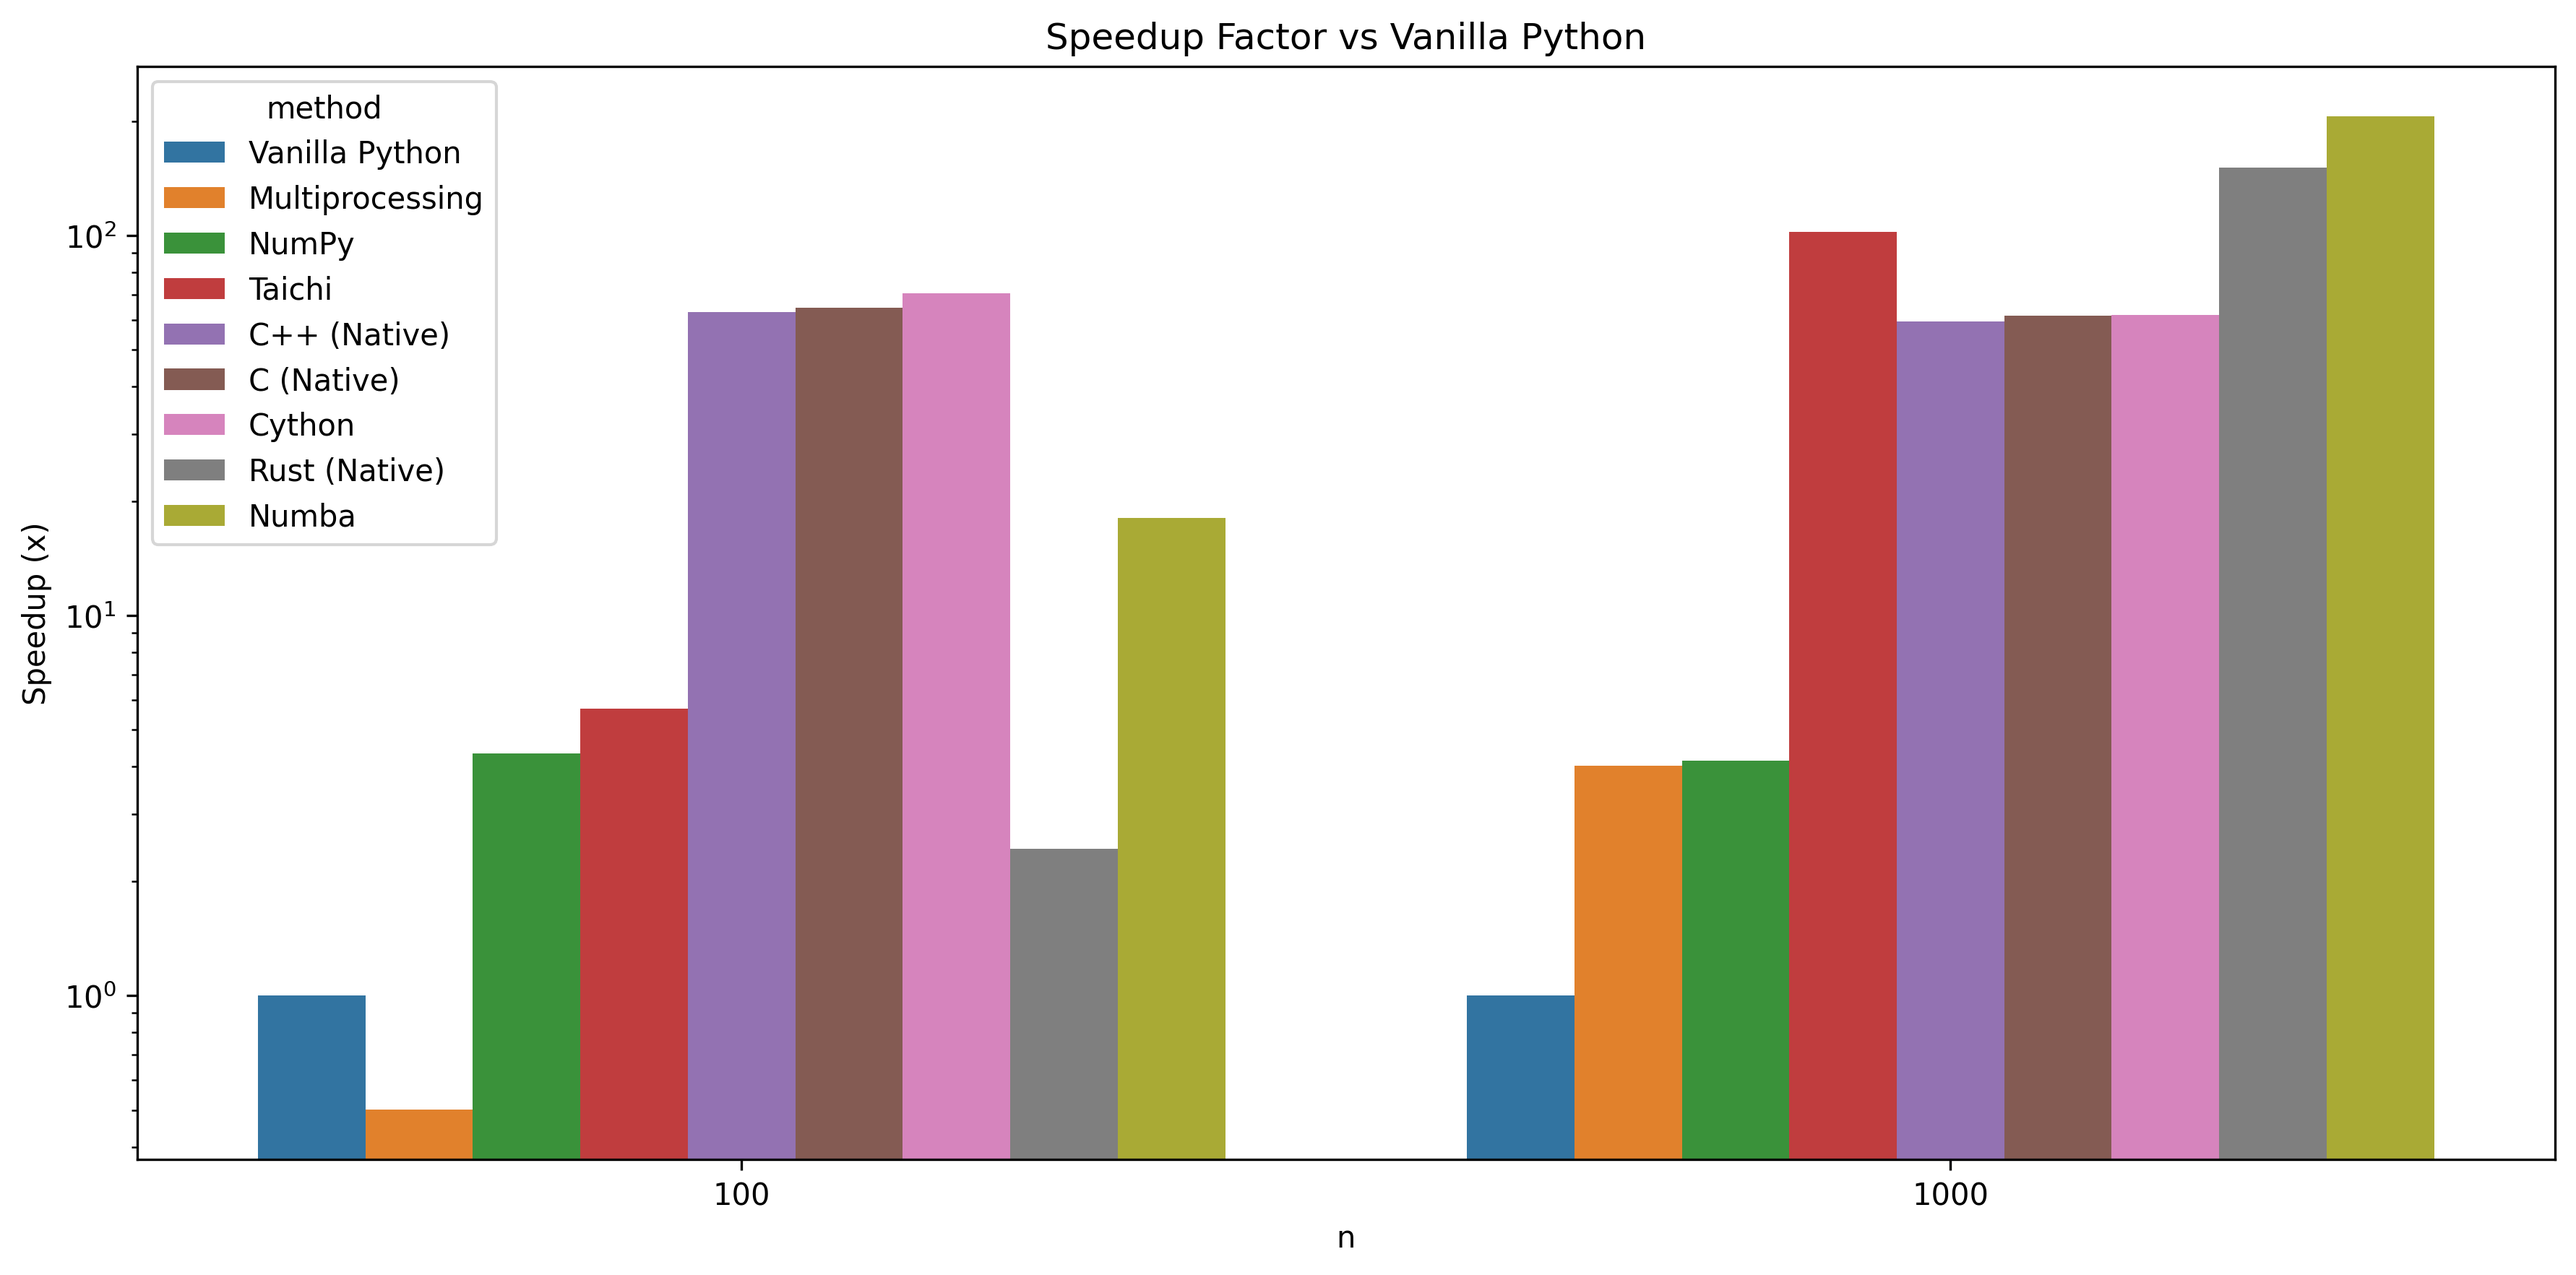
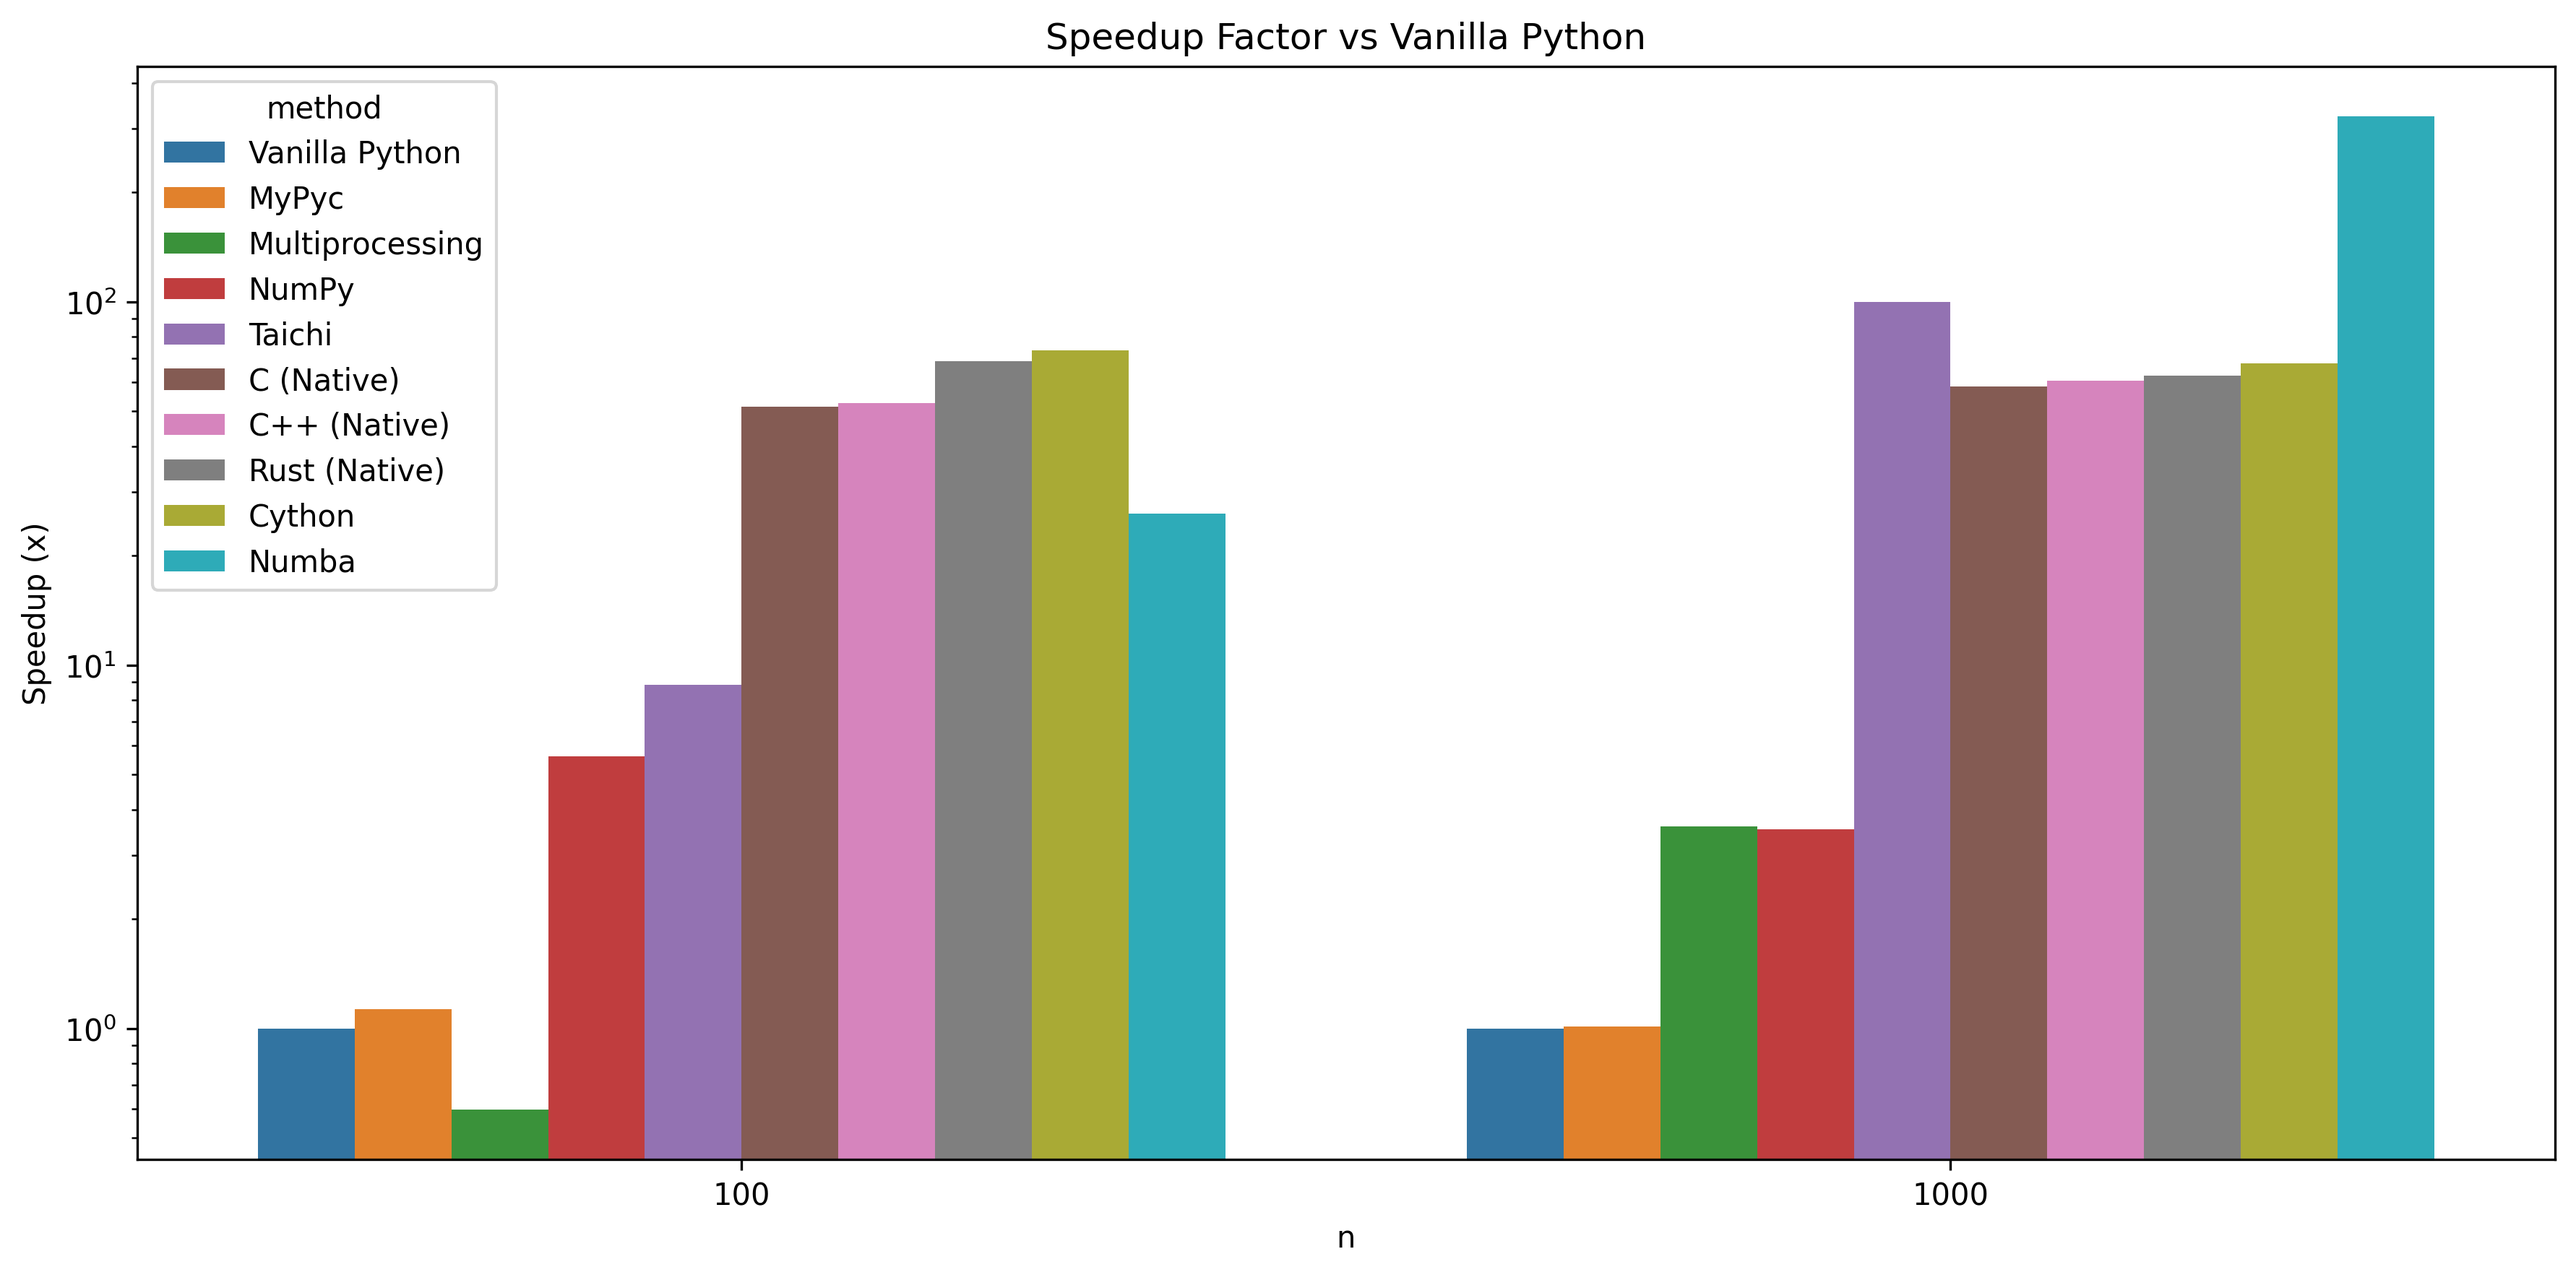
feat: add MyPyc support for faster C extensions and update benchmarks and requirements
- Replaced Multiprocessing with MyPyc in README and benchmark runner for improved performance
- Updated requirements.txt to include mypy
- Added MyPyc to the list of Python implementations in the benchmark script
- Updated benchmark results with MyPyc timings for various methods

diff --git a/src/python/mypyc_impl.py b/src/python/mypyc_impl.py
@@ -1,0 +1,91 @@
+import argparse
+import random
+import time
+import math
+from typing import List, Tuple
+
+def compute_forces(
+    positions: List[Tuple[float, float, float]], 
+    masses: List[float], 
+    velocities: List[Tuple[float, float, float]], 
+    dt: float
+) -> List[Tuple[float, float, float]]:
+    n = len(positions)
+    new_velocities: List[Tuple[float, float, float]] = []
+    
+    for i in range(n):
+        x1, y1, z1 = positions[i]
+        vx, vy, vz = velocities[i]
+        fx = 0.0
+        fy = 0.0
+        fz = 0.0
+        
+        for j in range(n):
+            if i == j:
+                continue
+            x2, y2, z2 = positions[j]
+            dx = x2 - x1
+            dy = y2 - y1
+            dz = z2 - z1
+            dist_sq = dx*dx + dy*dy + dz*dz + 1e-9
+            dist = math.sqrt(dist_sq)
+            f = masses[j] / (dist_sq * dist)
+            fx += f * dx
+            fy += f * dy
+            fz += f * dz
+        
+        new_velocities.append((vx + fx * dt, vy + fy * dt, vz + fz * dt))
+    
+    return new_velocities
+
+def update_positions(
+    positions: List[Tuple[float, float, float]], 
+    velocities: List[Tuple[float, float, float]], 
+    dt: float
+) -> List[Tuple[float, float, float]]:
+    new_positions: List[Tuple[float, float, float]] = []
+    
+    for i in range(len(positions)):
+        x, y, z = positions[i]
+        vx, vy, vz = velocities[i]
+        new_positions.append((x + vx * dt, y + vy * dt, z + vz * dt))
+    
+    return new_positions
+
+def run_simulation(n_bodies: int, n_steps: int, dt: float = 0.01) -> float:
+    # Initialize with separate lists for better optimization
+    positions: List[Tuple[float, float, float]] = []
+    velocities: List[Tuple[float, float, float]] = []
+    masses: List[float] = []
+    
+    random.seed(42)
+    for _ in range(n_bodies):
+        positions.append((
+            random.uniform(-100, 100),
+            random.uniform(-100, 100), 
+            random.uniform(-100, 100)
+        ))
+        velocities.append((
+            random.uniform(-1, 1),
+            random.uniform(-1, 1),
+            random.uniform(-1, 1)
+        ))
+        masses.append(random.uniform(1, 10))
+
+    start_time = time.time()
+    
+    for _ in range(n_steps):
+        velocities = compute_forces(positions, masses, velocities, dt)
+        positions = update_positions(positions, velocities, dt)
+        
+    end_time = time.time()
+    return end_time - start_time
+
+if __name__ == "__main__":
+    parser = argparse.ArgumentParser(description="Optimized Python N-body benchmark")
+    parser.add_argument("--n", type=int, default=100, help="Number of bodies")
+    parser.add_argument("--steps", type=int, default=100, help="Number of steps")
+    args = parser.parse_args()
+
+    duration = run_simulation(args.n, args.steps)
+    print(f"RESULT: {duration}")

diff --git a/src/python/mypyc_runner.py b/src/python/mypyc_runner.py
@@ -1,0 +1,68 @@
+#!/usr/bin/env python3
+"""
+Runner for MyPyc compiled N-body simulation
+"""
+
+import os
+import sys
+import subprocess
+import argparse
+
+def compile_mypyc():
+    """Compile the mypyc implementation if needed"""
+    current_dir = os.path.dirname(os.path.abspath(__file__))
+    
+    # Check if compiled module exists
+    import glob
+    compiled_files = glob.glob(os.path.join(current_dir, "mypyc_impl*.so")) + \
+                    glob.glob(os.path.join(current_dir, "mypyc_impl*.pyd"))
+    
+    if not compiled_files:
+        print("Compiling MyPyc implementation...")
+        try:
+            # Run the setup script to compile
+            result = subprocess.run([
+                sys.executable, "setup_mypyc.py", "build_ext", "--inplace"
+            ], cwd=current_dir, capture_output=True, text=True, check=True)
+            print("MyPyc compilation successful")
+        except subprocess.CalledProcessError as e:
+            print(f"MyPyc compilation failed: {e}")
+            print(f"stdout: {e.stdout}")
+            print(f"stderr: {e.stderr}")
+            return False
+    
+    return True
+
+def main():
+    parser = argparse.ArgumentParser(description="N-Body simulation with MyPyc")
+    parser.add_argument("--n", type=int, default=100, help="Number of bodies")
+    parser.add_argument("--steps", type=int, default=50, help="Number of simulation steps")
+    args = parser.parse_args()
+    
+    # Compile if needed
+    if not compile_mypyc():
+        print("Failed to compile MyPyc implementation, falling back to regular Python")
+        # Fall back to regular Python execution
+        current_dir = os.path.dirname(os.path.abspath(__file__))
+        result = subprocess.run([sys.executable, os.path.join(current_dir, "mypyc_impl.py"), 
+                       "--n", str(args.n), "--steps", str(args.steps)], 
+                       capture_output=True, text=True)
+        print(result.stdout)
+        return
+    
+    # Import and run the compiled module
+    try:
+        import mypyc_impl
+        # Call run_simulation directly from compiled module
+        duration = mypyc_impl.run_simulation(args.n, args.steps)
+        print(f"RESULT: {duration}")
+    except ImportError:
+        print("Failed to import compiled module, falling back to regular Python")
+        current_dir = os.path.dirname(os.path.abspath(__file__))
+        result = subprocess.run([sys.executable, os.path.join(current_dir, "mypyc_impl.py"), 
+                       "--n", str(args.n), "--steps", str(args.steps)], 
+                       capture_output=True, text=True)
+        print(result.stdout)
+
+if __name__ == "__main__":
+    main()

diff --git a/src/python/baseline.py b/src/python/baseline.py
@@ -2,9 +2,10 @@ import argparse
 import random
 import time
 import math
+from typing import List
 
 class Planet:
-    def __init__(self, x, y, z, vx, vy, vz, mass):
+    def __init__(self, x: float, y: float, z: float, vx: float, vy: float, vz: float, mass: float) -> None:
         self.x = x
         self.y = y
         self.z = z
@@ -13,7 +14,7 @@ class Planet:
         self.vz = vz
         self.mass = mass
 
-def compute_forces(planets, dt, soft_epsilon=1e-9):
+def compute_forces(planets: List[Planet], dt: float, soft_epsilon: float = 1e-9) -> None:
     # This is the O(N^2) part
     n = len(planets)
     for i in range(n):
@@ -40,15 +41,15 @@ def compute_forces(planets, dt, soft_epsilon=1e-9):
         p1.vy += fy * dt
         p1.vz += fz * dt
 
-def update_positions(planets, dt):
+def update_positions(planets: List[Planet], dt: float) -> None:
     # Update positions (semi-implicit Euler part 2)
     for p in planets:
         p.x += p.vx * dt
         p.y += p.vy * dt
         p.z += p.vz * dt
 
-def run_simulation(n_bodies, n_steps, dt=0.01):
-    planets = []
+def run_simulation(n_bodies: int, n_steps: int, dt: float = 0.01) -> float:
+    planets: List[Planet] = []
     # Initialize random planets
     random.seed(42)
     for _ in range(n_bodies):

diff --git a/bench_runner.py b/bench_runner.py
@@ -77,6 +77,7 @@ if __name__ == "__main__":
         (["python", "src/python/numba_impl.py"], "Numba", "python"),
         (["python", "src/python/taichi_impl.py"], "Taichi", "python"),
         (["python", "src/python/cython_runner.py"], "Cython", "python"),
+        (["python", "src/python/mypyc_runner.py"], "MyPyc", "python"),
         (["python", "src/python/mp_impl.py"], "Multiprocessing", "python"),
         # Native binaries
         (["src/rust_impl/target/release/nbody_rust.exe"] if os.name == 'nt' else ["./src/rust_impl/target/release/nbody_rust"], "Rust (Native)", "rust"),

diff --git a/src/python/setup_mypyc.py b/src/python/setup_mypyc.py
@@ -1,0 +1,15 @@
+#!/usr/bin/env python3
+"""
+Setup script to compile mypyc_impl.py using mypyc
+"""
+
+from mypyc.build import mypycify
+from setuptools import setup
+
+setup(
+    name="nbody_mypyc",
+    ext_modules=mypycify([
+        "mypyc_impl.py"
+    ]),
+    zip_safe=False,
+)

diff --git a/README.md b/README.md
@@ -31,7 +31,10 @@ We have implemented the simulation using the following technologies:
 5.  **Cython**
     - Compiles Python-like code to C extensions.
     - *Pros*: robust, widely used. *Cons*: requires separate build step.
-6.  **Multiprocessing**
+6.  **MyPyc**
+    - MyPy's compiler that translates type-annotated Python to C extensions.
+    - *Pros*: significant speedup with minimal code changes, leverages existing type hints.
+7.  **Multiprocessing**
     - Uses multiple CPU cores to parallelize the workload.
     - *Pros*: utilizes hardware. *Cons*: high overhead for process communication.
 
